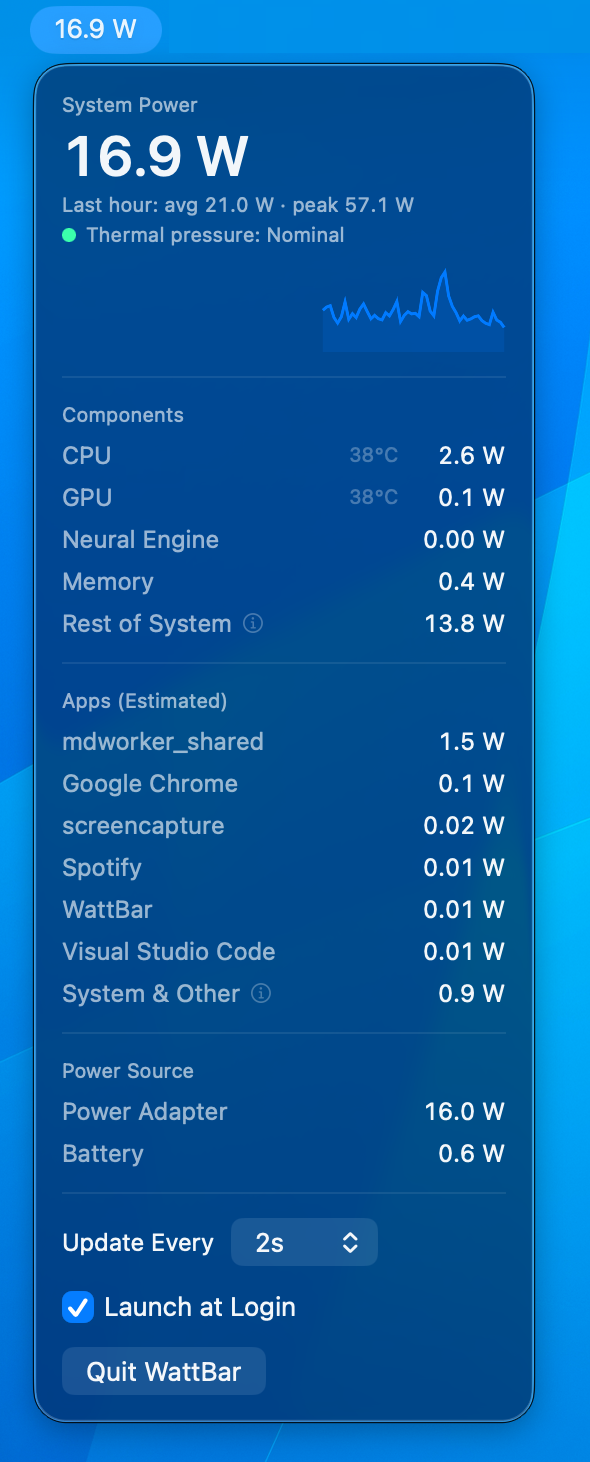
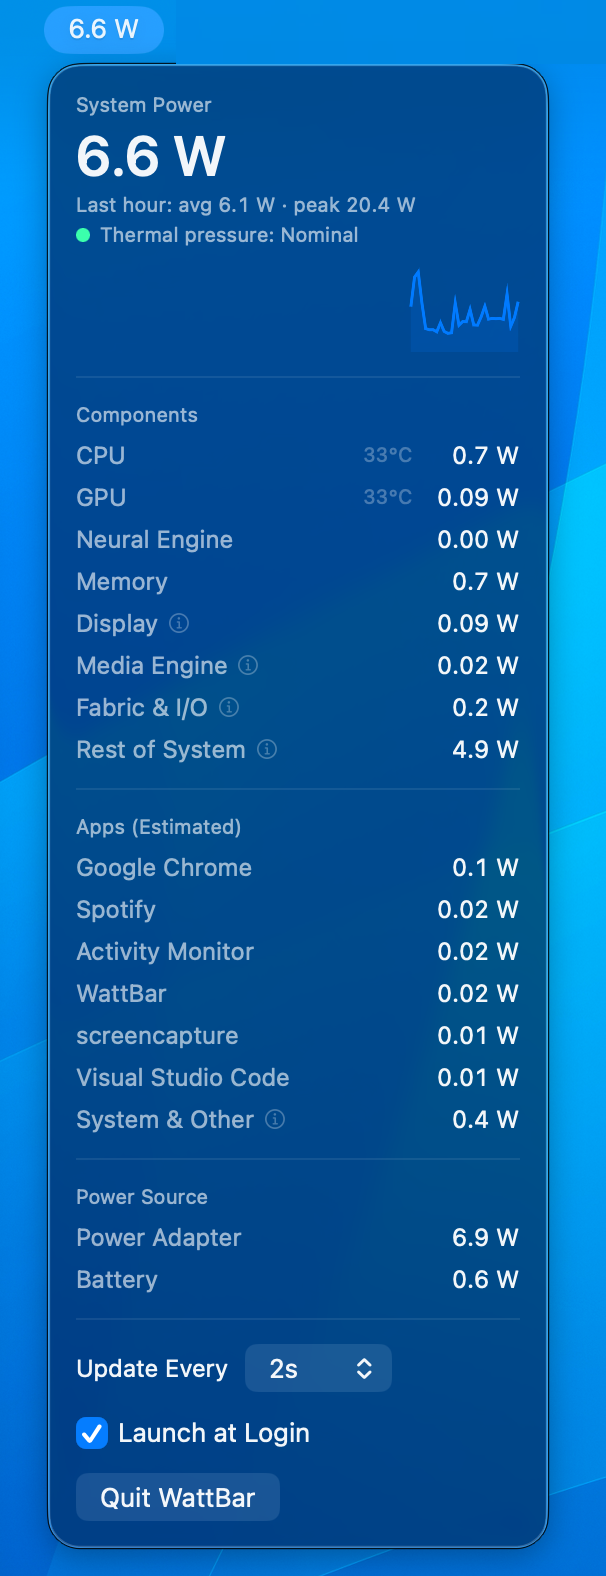
Bump to 1.0.2; new screenshot, note iStat Menus M5 breakage in README
Update the panel screenshot to show the expanded component breakdown,
explain that WattBar exists mainly because iStat Menus can no longer
read power sensors on M5-series Macs, and drop em-dashes from the
README prose.

diff --git a/README.md b/README.md
@@ -1,22 +1,22 @@
 <p align="center">
-  <img src="icon/icon-256.png" width="128" alt="WattBar icon — a glassy orange power plug">
+  <img src="icon/icon-256.png" width="128" alt="WattBar icon: a glassy orange power plug">
 </p>
 
 # WattBar
 
-A macOS menu bar app that shows your Mac's live power draw in watts — no sudo required.
+A macOS menu bar app that shows your Mac's live power draw in watts, no sudo required.
 
-Inspired by [mactop](https://github.com/context-labs/mactop) and iStat Menus, but living in the menu bar instead of a terminal.
+WattBar exists mainly because iStat Menus can no longer read power sensors on M5-series Macs. It is inspired by iStat Menus and [mactop](https://github.com/context-labs/mactop), but lives in the menu bar instead of a terminal.
 
 <p align="center">
-  <img src="docs/screenshot.png" width="380" alt="WattBar in the menu bar showing 16.9 W, with the panel open: last-hour average and peak, thermal pressure, power history sparkline, per-component power with CPU/GPU temperatures, estimated per-app power, and adapter/battery draw">
+  <img src="docs/screenshot.png" width="380" alt="WattBar in the menu bar showing 6.6 W, with the panel open: last-hour average and peak, thermal pressure, power history sparkline, per-component power (CPU, GPU, Neural Engine, Memory, Display, Media Engine, Fabric & I/O, Rest of System) with CPU/GPU temperatures, estimated per-app power, and adapter/battery draw">
 </p>
 
 ## Features
 
 - **Live system power** in the menu bar (e.g. `22.5 W`), updating at a configurable interval (0.5s / 1s / 2s / 5s)
-- **Component breakdown**: CPU, GPU, Neural Engine, and Memory power, with CPU/GPU die temperatures, plus a "Rest of System" residual (display, SSD, radios, conversion losses)
-- **Per-app power estimates**: measured CPU package power distributed across apps by their share of machine-wide CPU time — including short-lived child processes like compilers, which roll up into their parent app
+- **Component breakdown**: CPU, GPU, Neural Engine, Memory, Display, Media Engine, and Fabric & I/O power, with CPU/GPU die temperatures, plus a "Rest of System" residual (display backlight, SSD, radios, conversion losses)
+- **Per-app power estimates**: measured CPU package power distributed across apps by their share of machine-wide CPU time, including short-lived child processes like compilers, which roll up into their parent app
 - **Last-hour history**: time-weighted average, peak, and a sparkline chart
 - **Thermal pressure** indicator (Nominal / Fair / Serious / Critical)
 - **Power source** rows: adapter draw and battery draw
@@ -57,6 +57,7 @@ The binary doubles as a command-line probe:
 ```sh
 .build/release/WattBar --probe         # one reading of every power/temp source
 .build/release/WattBar --apps          # per-app power estimate over 2 seconds
+.build/release/WattBar --components    # bucketed component breakdown, as shown in the panel
 .build/release/WattBar --dump          # every raw SMC power sensor
 .build/release/WattBar --login-status  # login item registration state
 ```